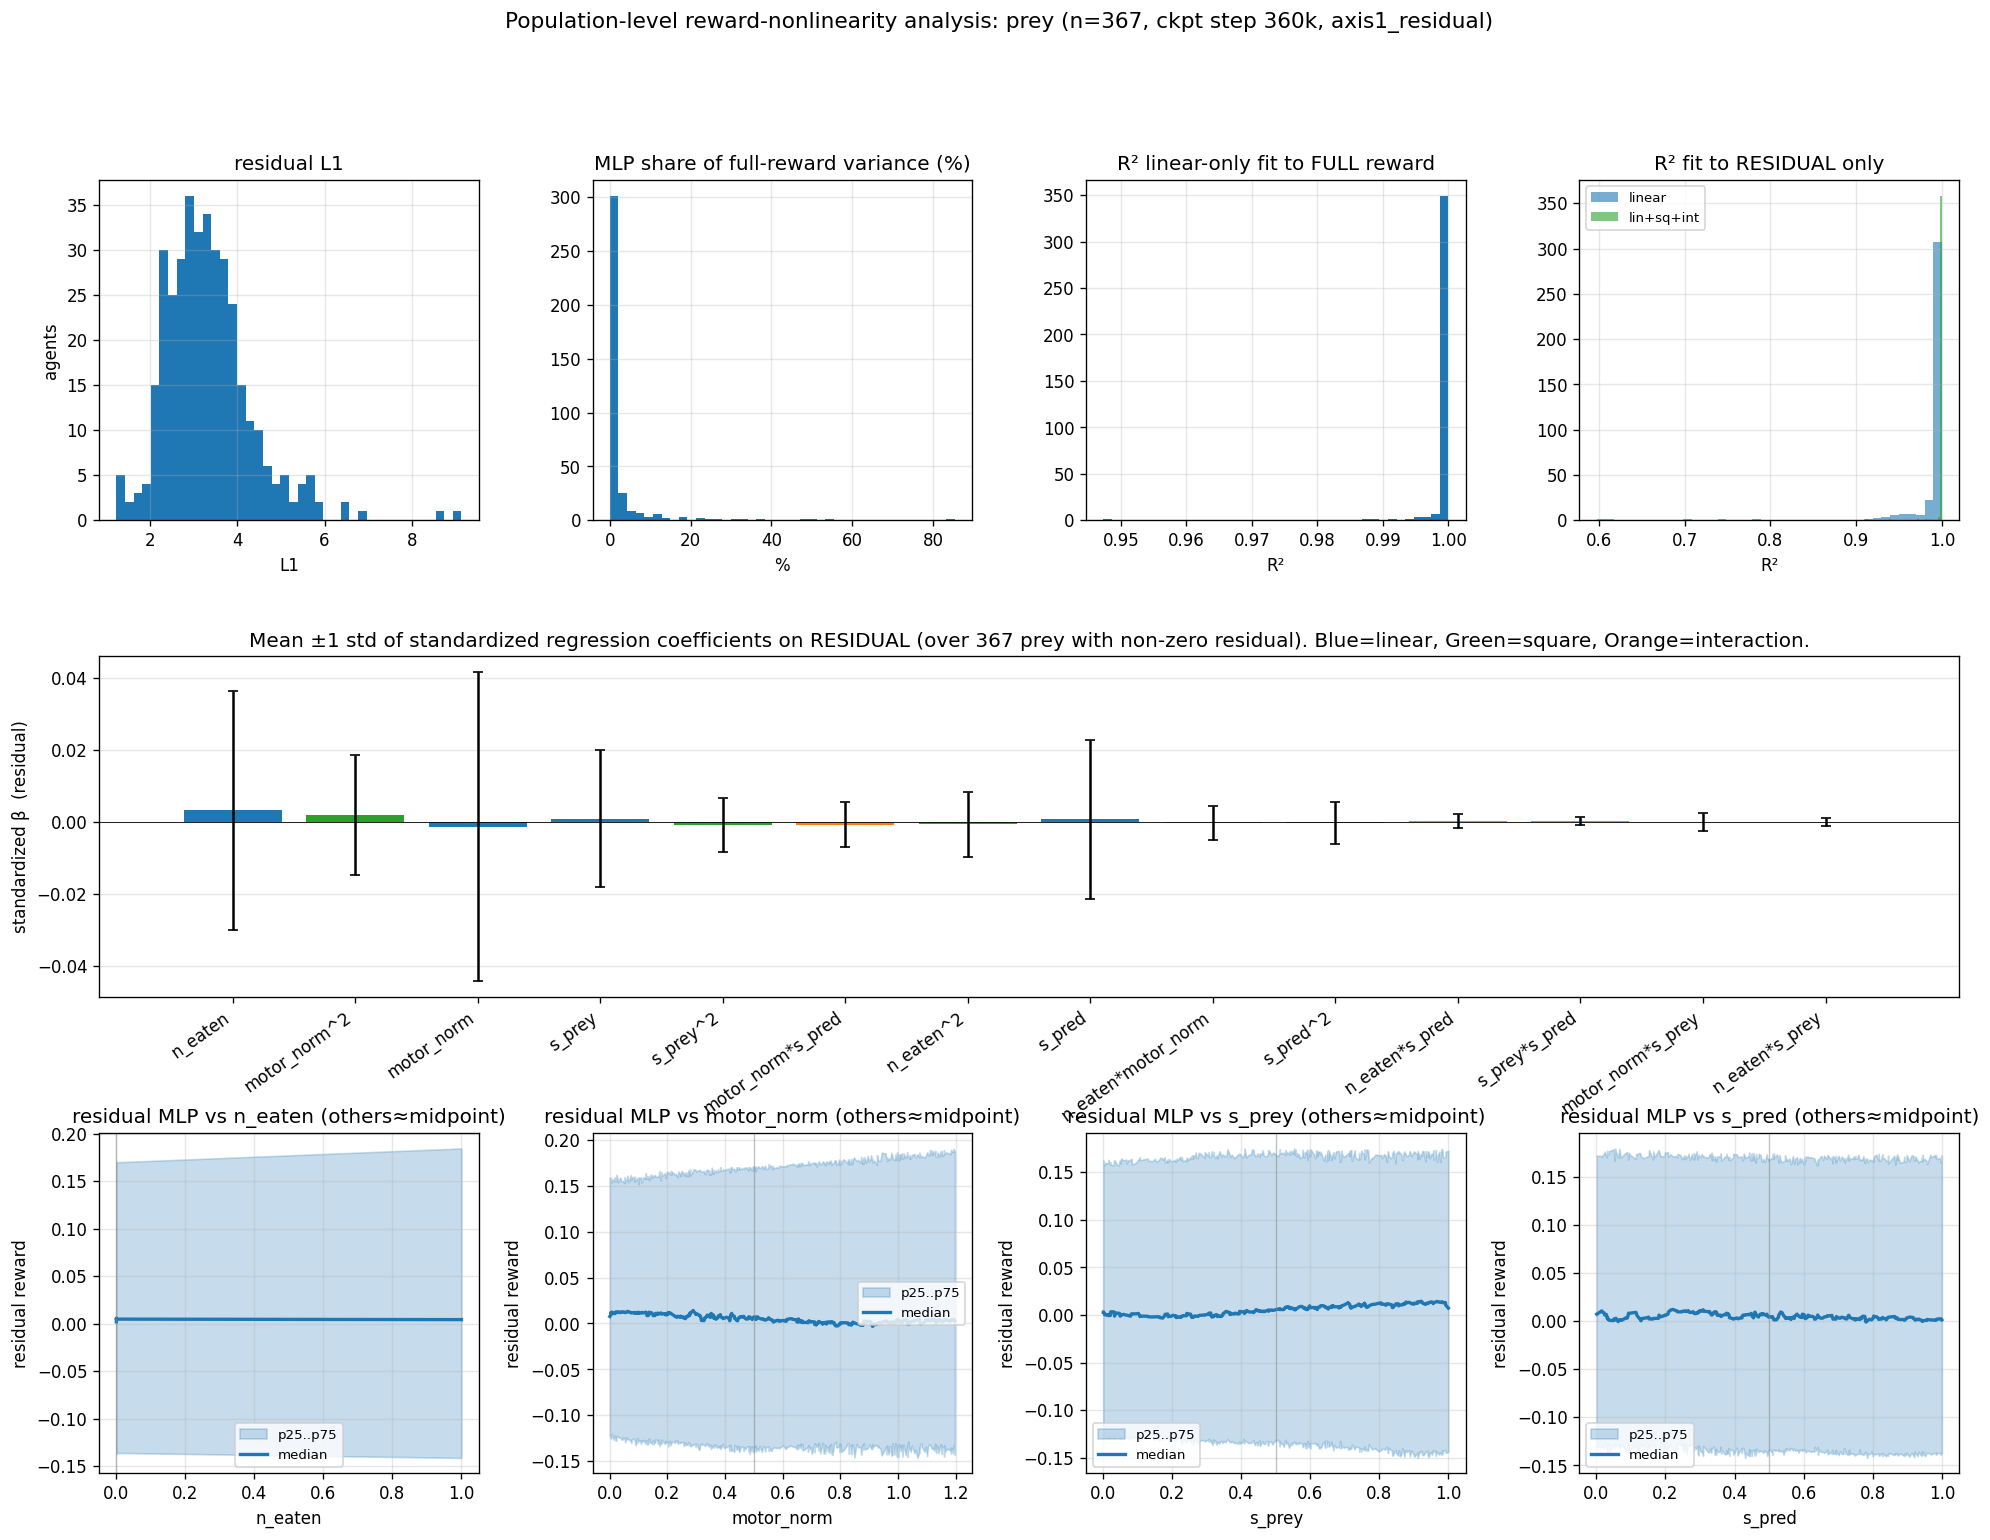
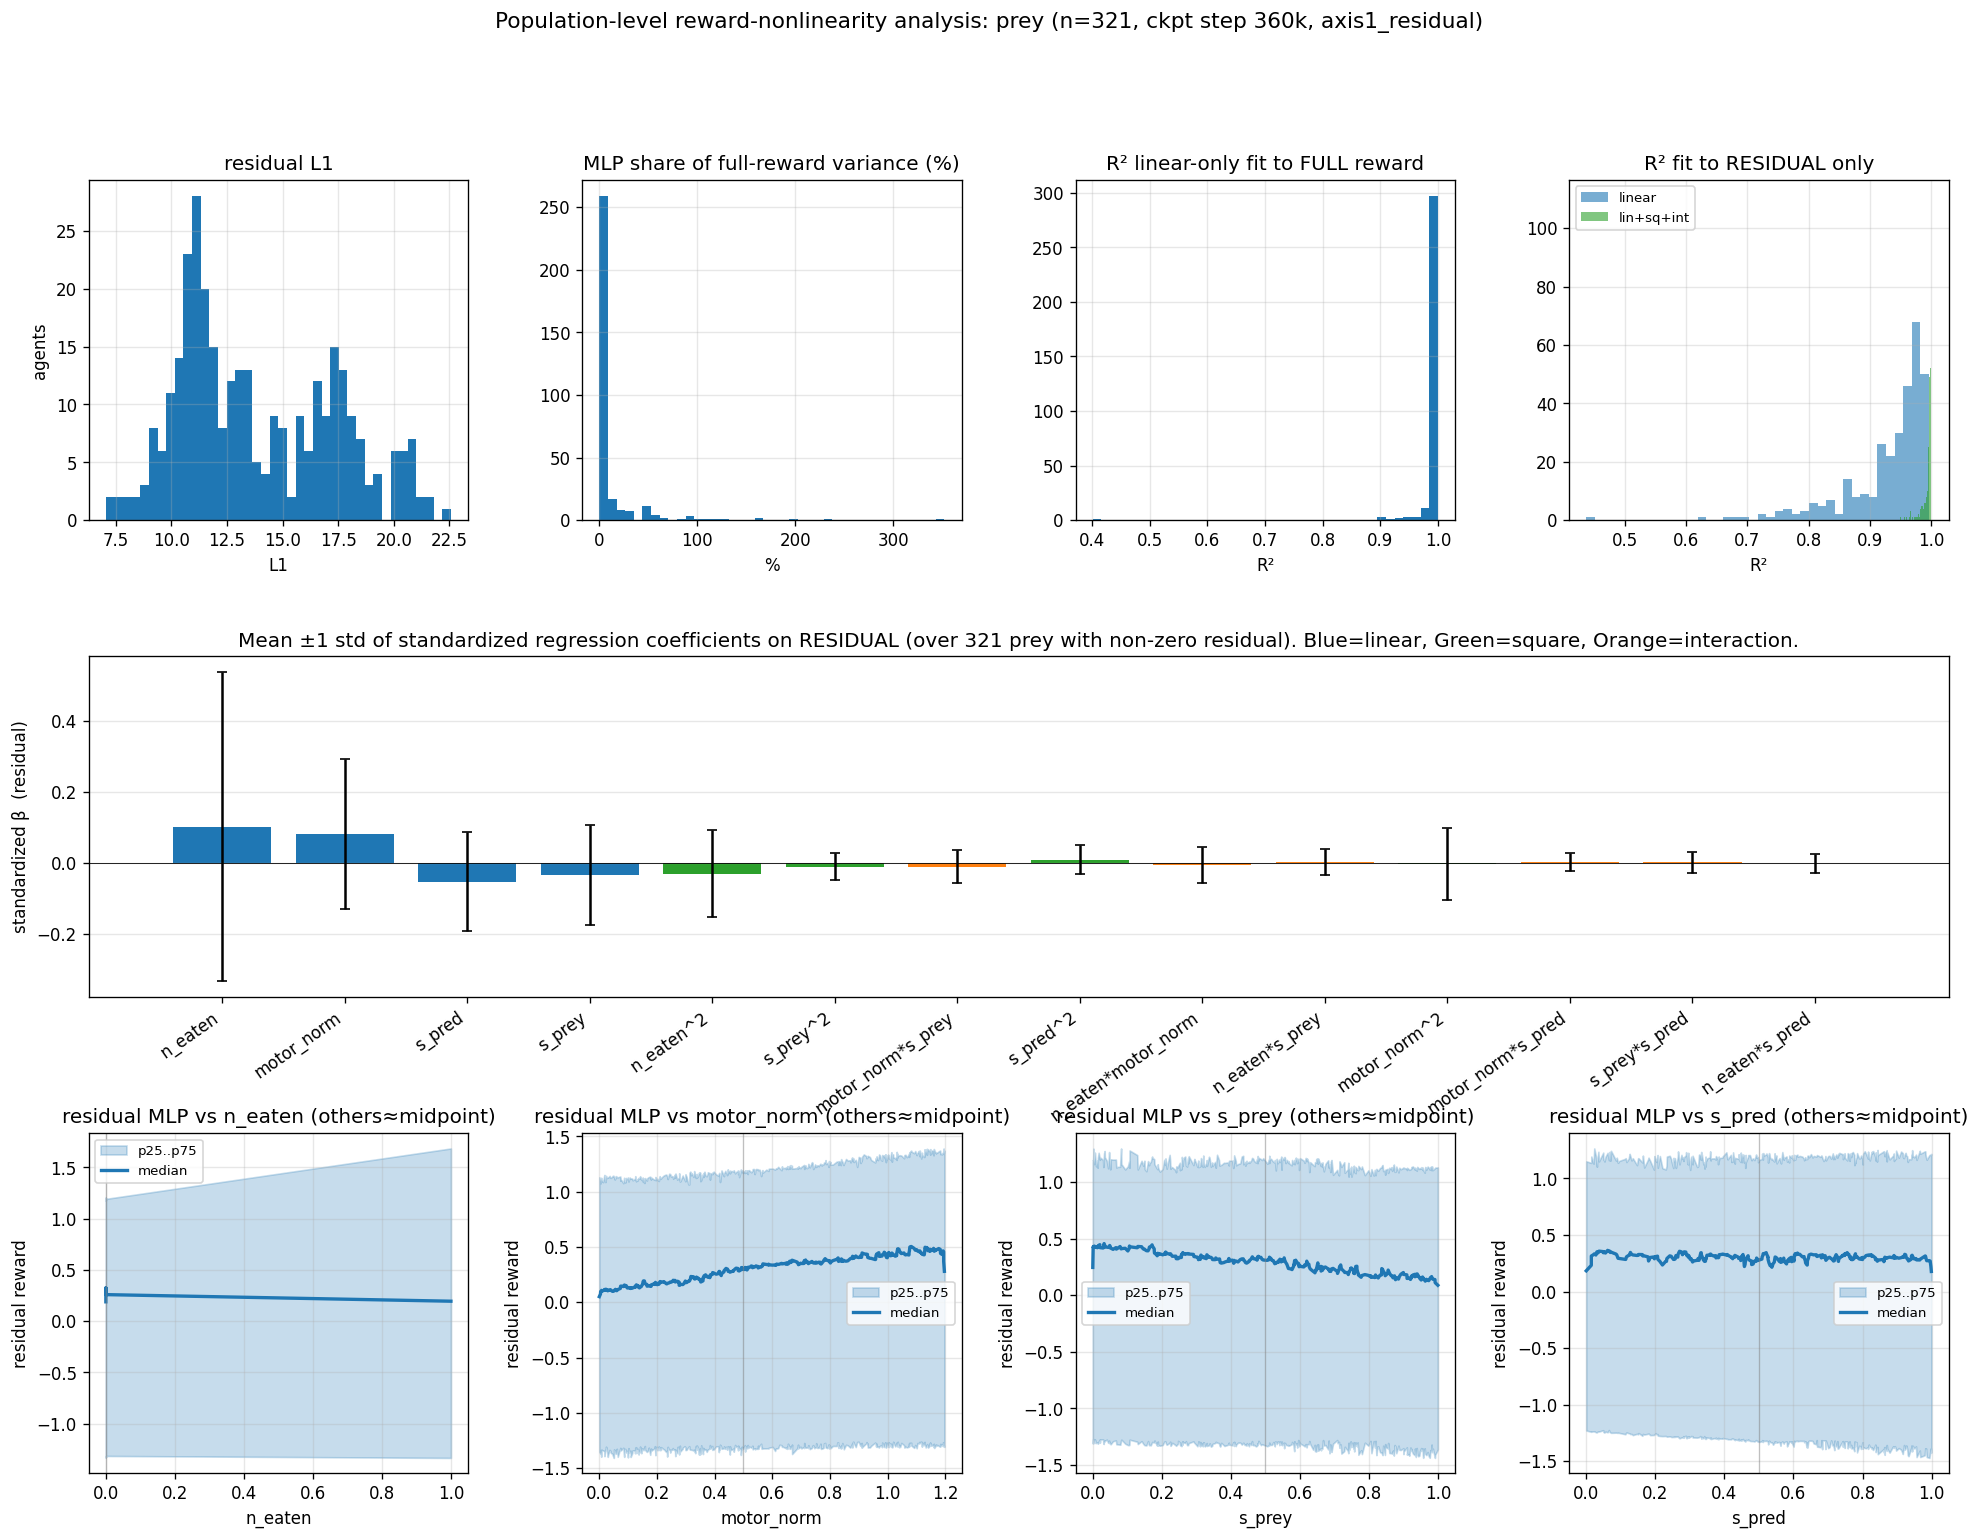
[Analysis] axis2 other-creature heading weights + refresh nonlinearity PNGs
- New script analysis/axis2_other_velocity_weights.py: for an axis2_aligned
  checkpoint, computes per-agent input-row L2 norm of Dense_0 grouped by
  semantic channel (prey_dist, prey_heading, pred_dist, pred_heading, food,
  wall, tactile, self) and compares against a Flax LeCun-normal init
  reference. Headline output: median × ref per group, fraction of agents
  with cross-species heading > 2× ref, top-k attention agents per heading
  group, plus a per-species boxplot.

  Result on axis2_aligned step 560k (the predator-peak checkpoint, just
  before the crash to 0): heading channels sit ~1.07–1.16× init across
  the population, distance channels ~1.10–1.20× init. Only 0.8% of prey
  exceed 2× init on pred-heading; 0% of predators exceed 2× init on
  prey-heading. Policies aren't measurably attending to the cross-species
  heading inputs that motivate the axis-2 encoding.

- Regenerated reward_nonlinearity_population_{prey,predator}.png from the
  axis1_residual_reward_mlp_med ckpt at step 2.1M (the existing probe
  produces fresh PNGs on every run).

diff --git a/analysis/axis2_other_velocity_weights.py b/analysis/axis2_other_velocity_weights.py
@@ -1,0 +1,292 @@
+"""
+axis2_other_velocity_weights.py
+-------------------------------
+For an axis2 (bin-aligned heading) checkpoint, ask: do any agents'
+MLP policies actually *use* the inputs that encode other creatures'
+heading/velocity?
+
+axis2_aligned obs layout (333 dims):
+  Per proximity bin (8 chans): [prey_dist, prey_sin_h, prey_cos_h,
+                                 pred_dist, pred_sin_h, pred_cos_h,
+                                 food_dist, wall_dist]
+  → 32 bins × 8 = 256 dims (indices 0..255)
+  Tactile: 72 dims (256..327)
+  Self:    5 dims  (328=vel_x, 329=vel_y, 330=angle, 331=ang_vel, 332=energy)
+
+The "other-creature velocity" inputs are the heading sin/cos channels —
+indices {bin*8 + 1, bin*8 + 2} (prey heading) and {bin*8 + 4, bin*8 + 5}
+(predator heading) across all 32 bins.
+
+We compare per-agent input-layer weight magnitude on these channels
+against:
+  - the corresponding distance channels (known to be useful);
+  - other input groups (food, wall, tactile, self);
+  - a random-init reference (Flax LeCun-normal: row-norm at init).
+
+Run:
+    python analysis/axis2_other_velocity_weights.py \\
+        --ckpt ckpts/axis2_aligned/step_00560000.npz \\
+        --config configs/archive/axis2_aligned.yaml
+"""
+from __future__ import annotations
+
+import argparse
+import math
+import sys
+from pathlib import Path
+
+import matplotlib.pyplot as plt
+import numpy as np
+
+_ROOT = Path(__file__).resolve().parent.parent
+sys.path.insert(0, str(_ROOT))
+
+from analysis.checkpoint_explorer import load
+
+
+DEFAULT_CKPT = "ckpts/axis2_aligned/step_00560000.npz"
+DEFAULT_CONFIG = "configs/archive/axis2_aligned.yaml"
+
+
+# ---------------------------------------------------------------------------
+# Obs-index groupings
+# ---------------------------------------------------------------------------
+
+def build_index_groups(config: dict) -> dict[str, np.ndarray]:
+    """Return obs-index arrays for each semantic group.
+
+    Assumes proximity_encoding == 'distance_and_heading' (8 channels/bin).
+    """
+    enc = config.get("proximity_encoding", "distance_only")
+    if enc != "distance_and_heading":
+        raise ValueError(
+            f"This script targets proximity_encoding='distance_and_heading'; "
+            f"got {enc!r}. The channel layout differs for other encodings."
+        )
+
+    n_bins = config["n_proximity_sensors"]              # 32
+    n_chans = config["n_proximity_channels"]            # 8
+    n_tact = config["n_tactile_sensors"] * config["n_tactile_channels"]  # 72
+
+    bins = np.arange(n_bins)
+
+    def chan(c: int) -> np.ndarray:
+        return bins * n_chans + c
+
+    prox_end = n_bins * n_chans                          # 256
+    tact_end = prox_end + n_tact                         # 328
+
+    groups = {
+        "prey_dist":      chan(0),
+        "prey_heading":   np.concatenate([chan(1), chan(2)]),
+        "pred_dist":      chan(3),
+        "pred_heading":   np.concatenate([chan(4), chan(5)]),
+        "food_dist":      chan(6),
+        "wall_dist":      chan(7),
+        "tactile":        np.arange(prox_end, tact_end),
+        "self_vel_xy":    np.array([tact_end, tact_end + 1]),
+        "self_other":     np.arange(tact_end + 2, tact_end + 5),
+    }
+    # sanity
+    seen = np.concatenate(list(groups.values()))
+    assert seen.size == config["obs_dim"], (
+        f"index groups cover {seen.size} dims, obs_dim={config['obs_dim']}"
+    )
+    assert np.unique(seen).size == seen.size, "overlapping index groups"
+    return groups
+
+
+# ---------------------------------------------------------------------------
+# Per-agent input-row norm
+# ---------------------------------------------------------------------------
+
+def per_input_norm(kernel: np.ndarray) -> np.ndarray:
+    """Row-wise L2 norm of Dense_0 kernel.
+
+    `kernel` shape: (n_agents, obs_dim, hidden). Returns (n_agents, obs_dim).
+    The row norm tells how much that input feature drives the first hidden
+    layer for that agent (any rotation in hidden space preserves it).
+    """
+    return np.linalg.norm(kernel, axis=2)
+
+
+def init_row_norm_reference(obs_dim: int, hidden: int) -> float:
+    """Expected per-input row norm at Flax-default init (LeCun-normal).
+
+    Flax's nn.Dense default is lecun_normal: stddev = 1/sqrt(in_features).
+    Row norm ≈ sqrt(hidden) * 1/sqrt(in_features).
+    """
+    return math.sqrt(hidden) / math.sqrt(obs_dim)
+
+
+# ---------------------------------------------------------------------------
+# Reporting
+# ---------------------------------------------------------------------------
+
+def group_stats(row_norm: np.ndarray, idx: np.ndarray) -> dict:
+    """Per-agent group statistic: mean of row-norms over `idx`."""
+    sub = row_norm[:, idx]
+    per_agent_mean = sub.mean(axis=1)
+    return {
+        "per_agent_mean":  per_agent_mean,
+        "pop_mean":        float(per_agent_mean.mean()),
+        "pop_p25":         float(np.percentile(per_agent_mean, 25)),
+        "pop_p50":         float(np.percentile(per_agent_mean, 50)),
+        "pop_p75":         float(np.percentile(per_agent_mean, 75)),
+        "pop_max":         float(per_agent_mean.max()),
+        "max_agent":       int(np.argmax(per_agent_mean)),
+    }
+
+
+def print_block(species: str, row_norm: np.ndarray, groups: dict,
+                ref: float) -> None:
+    print(f"\n=== {species}: per-agent mean of input-row L2 norm by channel group "
+          f"(n={row_norm.shape[0]}) ===")
+    print(f"  random-init reference ≈ {ref:.4f}\n")
+    print(f"  {'group':<18} {'pop_mean':>10} {'p25':>9} {'p50':>9} "
+          f"{'p75':>9} {'max':>9}  {'×ref(median)':>14}")
+    rows = []
+    for name, idx in groups.items():
+        s = group_stats(row_norm, idx)
+        rows.append((name, s))
+    # sort by population median descending for readability
+    rows.sort(key=lambda kv: -kv[1]["pop_p50"])
+    for name, s in rows:
+        ratio = s["pop_p50"] / ref
+        print(f"  {name:<18} {s['pop_mean']:>10.4f} {s['pop_p25']:>9.4f} "
+              f"{s['pop_p50']:>9.4f} {s['pop_p75']:>9.4f} "
+              f"{s['pop_max']:>9.4f}  {ratio:>13.2f}×")
+
+
+def find_high_heading_agents(row_norm: np.ndarray, groups: dict,
+                             ref: float, top_k: int = 5) -> list:
+    """Top-k agents by combined other-species heading row-norm."""
+    # "other-species heading" depends on caller; here just return per-agent
+    # stats for both prey-heading and pred-heading.
+    return [
+        ("prey_heading",
+         np.argsort(-row_norm[:, groups["prey_heading"]].mean(axis=1))[:top_k]),
+        ("pred_heading",
+         np.argsort(-row_norm[:, groups["pred_heading"]].mean(axis=1))[:top_k]),
+    ]
+
+
+# ---------------------------------------------------------------------------
+# Plot
+# ---------------------------------------------------------------------------
+
+def plot_distributions(prey_rn, pred_rn, groups, ref, out_path):
+    fig, axes = plt.subplots(2, 1, figsize=(12, 8), sharex=True)
+
+    order = ["prey_dist", "prey_heading", "pred_dist", "pred_heading",
+             "food_dist", "wall_dist", "tactile", "self_vel_xy", "self_other"]
+
+    for ax, rn, label in [(axes[0], prey_rn, "prey policies"),
+                          (axes[1], pred_rn, "predator policies")]:
+        data = [rn[:, groups[g]].mean(axis=1) for g in order]
+        bp = ax.boxplot(data, labels=order, showfliers=True, whis=(5, 95))
+        ax.axhline(ref, color="red", linestyle="--", lw=1,
+                   label=f"random-init ref ≈ {ref:.3f}")
+        ax.set_ylabel("per-agent mean row-norm of Dense_0[input, :]")
+        ax.set_title(f"axis2_aligned — input-layer attention by channel group ({label})")
+        ax.grid(alpha=0.3, axis="y")
+        ax.legend(loc="upper right", fontsize=8)
+        for tick in ax.get_xticklabels():
+            tick.set_rotation(20)
+
+    fig.tight_layout()
+    fig.savefig(out_path, dpi=120, bbox_inches="tight")
+    plt.close(fig)
+
+
+# ---------------------------------------------------------------------------
+# Main
+# ---------------------------------------------------------------------------
+
+def main() -> None:
+    ap = argparse.ArgumentParser()
+    ap.add_argument("--ckpt",   default=DEFAULT_CKPT)
+    ap.add_argument("--config", default=DEFAULT_CONFIG)
+    ap.add_argument("--top-k",  type=int, default=5,
+                    help="Print top-k agents per heading group")
+    ap.add_argument("--out",    default=None,
+                    help="Output PNG path (default: alongside the ckpt)")
+    args = ap.parse_args()
+
+    print(f"Loading {args.ckpt} (config={args.config})…")
+    state = load(args.ckpt, config=args.config)
+
+    import yaml
+    with open(_ROOT / args.config) as f:
+        cfg = yaml.safe_load(f)
+    groups = build_index_groups(cfg)
+    obs_dim = cfg["obs_dim"]
+    hidden = cfg["policy_hidden_size"]
+    ref = init_row_norm_reference(obs_dim, hidden)
+
+    is_active = np.asarray(state.is_active)
+    species = np.asarray(state.species)
+
+    kernel = np.asarray(
+        state.policy_params["params"]["Dense_0"]["kernel"]
+    )  # (max_agents, obs_dim, hidden)
+    print(f"Dense_0 kernel shape: {kernel.shape}, obs_dim={obs_dim}, "
+          f"hidden={hidden}")
+
+    row_norm = per_input_norm(kernel)  # (max_agents, obs_dim)
+
+    prey_slots = np.where(is_active & (species == 0))[0]
+    pred_slots = np.where(is_active & (species == 1))[0]
+    print(f"Active prey={prey_slots.size}, predators={pred_slots.size}")
+
+    prey_rn = row_norm[prey_slots]
+    pred_rn = row_norm[pred_slots]
+
+    print_block("PREY",      prey_rn, groups, ref)
+    print_block("PREDATORS", pred_rn, groups, ref)
+
+    # Headline answer: for prey, focus on pred_heading; for predators, on
+    # prey_heading. That is the cross-species "other creature's velocity"
+    # info — the whole point of the axis2 encoding.
+    print("\n=== Headline: cross-species heading attention vs distance ===")
+    for label, rn, slots, head_g, dist_g in [
+        ("PREY → predator-heading",
+         prey_rn, prey_slots, "pred_heading", "pred_dist"),
+        ("PREDATOR → prey-heading",
+         pred_rn, pred_slots, "prey_heading", "prey_dist"),
+    ]:
+        h = rn[:, groups[head_g]].mean(axis=1)
+        d = rn[:, groups[dist_g]].mean(axis=1)
+        ratio_h = h / ref
+        ratio_d = d / ref
+        frac_above_2x = float((h > 2 * ref).mean())
+        print(f"\n  {label}")
+        print(f"    heading row-norm  median={np.median(h):.4f} "
+              f"(× ref = {np.median(ratio_h):.2f}), "
+              f"max={h.max():.4f} (× ref = {ratio_h.max():.2f})")
+        print(f"    dist    row-norm  median={np.median(d):.4f} "
+              f"(× ref = {np.median(ratio_d):.2f}), "
+              f"max={d.max():.4f} (× ref = {ratio_d.max():.2f})")
+        print(f"    fraction of agents with heading row-norm > 2× ref: "
+              f"{frac_above_2x:.1%}")
+
+        order_h = np.argsort(-h)[: args.top_k]
+        print(f"    top {args.top_k} agents (slot, agent_id, heading-rn, dist-rn):")
+        agent_ids = np.asarray(state.agent_ids)
+        for j in order_h:
+            slot = int(slots[j])
+            print(f"      slot={slot:>4}  id={int(agent_ids[slot]):>6}  "
+                  f"heading={h[j]:.4f}  dist={d[j]:.4f}")
+
+    out_path = (
+        Path(args.out) if args.out
+        else Path(args.ckpt).with_suffix("").with_name(
+            Path(args.ckpt).stem + "_input_weights.png"
+        )
+    )
+    plot_distributions(prey_rn, pred_rn, groups, ref, out_path)
+    print(f"\nWrote {out_path}")
+
+
+if __name__ == "__main__":
+    main()
